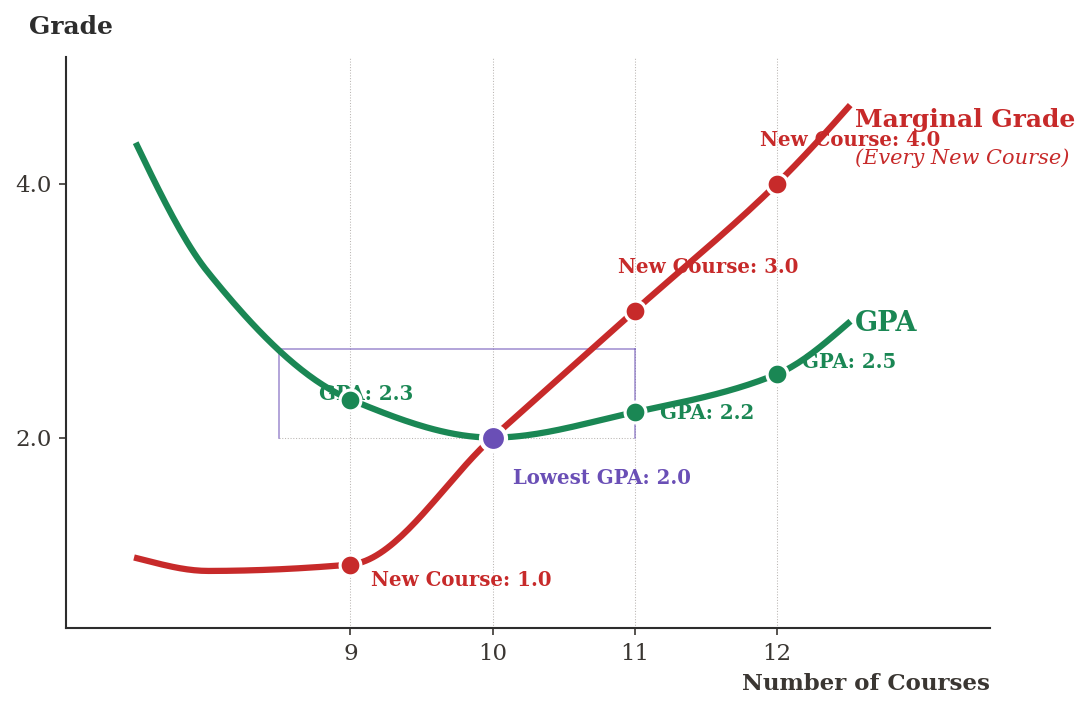
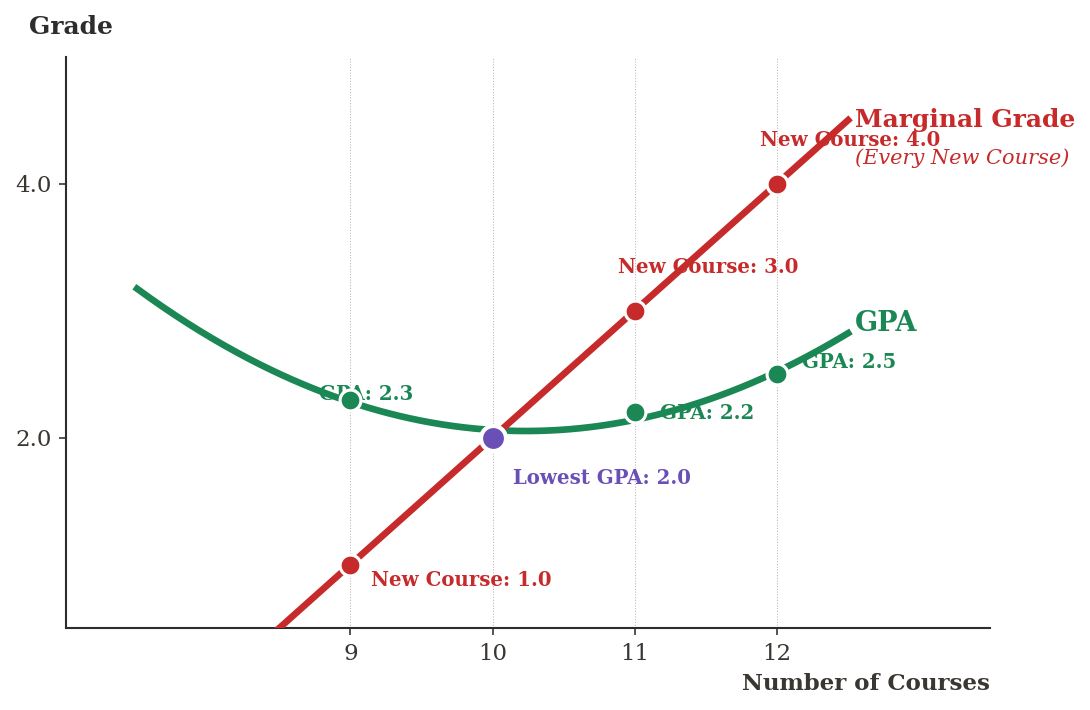
ch08: tweak 3D-printer photos + smoother GPA chart + merge Poll #1 into envelope-mu-mc
1. Slide 39 (3d-printers-and-manufacturing-cost): both photo cards
   now share an explicit 90px-tall flex container; img uses
   object-fit: contain + width:auto so each image shows at its
   full natural height (70px) without crop. Conventional-vs-Additive
   chart max-height shrunk 320 → 280 to keep the slide under 720px.

2. Slide 38 (amc-gpa-analogy): regenerated fig-gpa-analogy.png with
   smoother curves (quadratic fits through the 4 anchor points
   instead of PChip interpolation) and removed the decorative purple
   rectangle box that boxed the (8.5..11, 2.0..2.7) region. The
   purple emphasis dot at the (10, 2.0) crossing is kept.

3. Merged Poll #1 (former standalone vertical-stack at counter 42-43)
   INTO envelope-mu-mc (counter 41). Compressed the Calculus Corner
   text — single-paragraph derivation + single boxed result μ = MC
   + single interpretation line — then added a dashed separator and
   the Poll question + 4 horizontal options. Option C is fragment-
   revealed in green with a ✓; the explanation paragraph is the
   second fragment. Net change: -3 sections (no separate poll slide).

Total slides: 57 → 55.

diff --git a/econ2316/ch08-costs-of-production/index.html b/econ2316/ch08-costs-of-production/index.html
@@ -1369,12 +1369,12 @@
     <p style="font-size: 12pt; line-height: 1.4; margin: 0;">
       Modern <strong>3D printers</strong> take <em>Star Trek</em>'s &ldquo;replicator&rdquo; idea and make it real: feed plastic or metal, get a finished part. Cost structure: <strong style="color: var(--secondary-color);">fixed cost</strong> for the printer + <strong style="color: var(--accent-color);">variable cost</strong> for the materials.
     </p>
-    <div style="text-align: center;">
-      <img alt="Star Trek replicator scene with a Klingon at a panel showing the device reconstituting matter into food and drinks" src="figures/replicator.png" style="width: 100%; max-height: 70px; object-fit: cover; border-radius: 4px;">
+    <div style="text-align: center; background: #f4f1ed; border-radius: 4px; padding: 2px; height: 90px; display: flex; flex-direction: column; align-items: center; justify-content: center;">
+      <img alt="Star Trek replicator scene with a Klingon at a panel showing the device reconstituting matter into food and drinks" src="figures/replicator.png" style="max-width: 100%; max-height: 70px; height: 70px; width: auto; object-fit: contain;">
       <p style="font-size: 8pt; color: var(--muted-color); font-style: italic; margin: 1px 0 0;">Star Trek &ldquo;replicator&rdquo;</p>
     </div>
-    <div style="text-align: center;">
-      <img alt="Modern desktop 3D printer (Creality enclosure model) on a workbench" src="figures/3dprinter.jpg" style="width: 100%; max-height: 70px; object-fit: cover; border-radius: 4px;">
+    <div style="text-align: center; background: #f4f1ed; border-radius: 4px; padding: 2px; height: 90px; display: flex; flex-direction: column; align-items: center; justify-content: center;">
+      <img alt="Modern desktop 3D printer (Creality enclosure model) on a workbench" src="figures/3dprinter.jpg" style="max-width: 100%; max-height: 70px; height: 70px; width: auto; object-fit: contain;">
       <p style="font-size: 8pt; color: var(--muted-color); font-style: italic; margin: 1px 0 0;">Modern 3D printer (Creality)</p>
     </div>
   </div>
@@ -1405,7 +1405,7 @@
 
     <!-- RIGHT: Additive vs Conventional Manufacturing chart -->
     <div style="text-align: center;">
-      <img alt="Cost-per-unit vs unit-volume diagram. Blue curve labeled Conventional Manufacturing starts very high at low volume and falls toward a horizontal floor — economies of scale. Red horizontal line labeled Additive Manufacturing is flat — no scale economies. Crossover at moderate volume where conventional becomes cheaper than additive." src="figures/fig-additive-vs-conventional.png" style="width: 100%; max-height: 320px; border-radius: 6px;">
+      <img alt="Cost-per-unit vs unit-volume diagram. Blue curve labeled Conventional Manufacturing starts very high at low volume and falls toward a horizontal floor — economies of scale. Red horizontal line labeled Additive Manufacturing is flat — no scale economies. Crossover at moderate volume where conventional becomes cheaper than additive." src="figures/fig-additive-vs-conventional.png" style="width: 100%; max-height: 280px; border-radius: 6px;">
     </div>
   </div>
 
@@ -1449,59 +1449,37 @@
 <!-- ===== Slide 21 — Envelope theorem: μ = MC ===== -->
 <section id="envelope-mu-mc">
   <h2><i class="fa-solid fa-square-root-variable" style="color: var(--accent-color);"></i> Calculus Corner &mdash; The Envelope Theorem: \(\mu = MC\)</h2>
-  <p style="font-size: 13pt; line-height: 1.5;">
-    Recall the Lagrangian \(\mathcal{L} = wL + rK + \mu(q - f)\). Differentiate the optimized cost with respect to \(q\):
+  <p style="font-size: 12pt; line-height: 1.4; margin: 0 0 4px;">
+    Recall \(\mathcal{L} = wL + rK + \mu(q - f)\). Differentiate the optimized cost w.r.t. \(q\); the indirect effects vanish via the FOCs \(w = \mu f_L,\, r = \mu f_K\) and \(\partial f/\partial q = 1\):
   </p>
-  <div class="key-result" style="margin-top: 4px;">
-    <p style="margin: 0; text-align: center; font-size: 15pt;">
-      \[ \frac{\partial c}{\partial q} \;=\; \underbrace{w \frac{\partial L^*}{\partial q} + r \frac{\partial K^*}{\partial q}}_{\text{indirect effects}} \;+\; \underbrace{0}_{\text{direct}} \]
+  <div class="key-result" style="background: #ecfdf5; border-left-color: var(--success-color); margin: 4px 0; padding: 6px 14px;">
+    <p style="margin: 0; text-align: center; font-size: 16pt;">
+      \[ \frac{\partial c}{\partial q} \;=\; \mu \;=\; MC \]
     </p>
   </div>
-  <p style="font-size: 13pt; line-height: 1.5; margin-top: 10px;">
-    Use the FOCs \(w = \mu f_L,\, r = \mu f_K\). The indirect-effects bracket becomes \(\mu(f_L \partial L^*/\partial q + f_K \partial K^*/\partial q) = \mu \cdot \partial f/\partial q = \mu \cdot 1 = \mu\):
+  <p style="font-size: 11.5pt; line-height: 1.4; margin: 4px 0 0;">
+    <strong>The Lagrange multiplier on the output constraint is marginal cost.</strong> Same envelope mechanics as the consumer's \(\lambda = \partial v/\partial I = \) marginal utility of income (Ch 5).
   </p>
-  <div class="key-result" style="background: #ecfdf5; border-left-color: var(--success-color); margin-top: 4px;">
-    <p style="margin: 0; text-align: center; font-size: 17pt;">
-      \[ \boxed{\;\frac{\partial c}{\partial q} \;=\; \mu \;=\; MC\;} \]
-    </p>
-  </div>
-  <p style="font-size: 12.5pt; line-height: 1.5; margin-top: 10px;">
-    <strong>The Lagrange multiplier on the output constraint is marginal cost.</strong> No coincidence &mdash; \(\mu\) is the shadow price of one extra unit of output, which is by definition marginal cost.
-  </p>
-  <p style="font-size: 12pt; color: var(--muted-color); font-style: italic; margin-top: 6px; text-align: center;">
-    Same envelope mechanics as the consumer's \(\lambda = \partial v/\partial I = \) marginal utility of income (Ch 5).
-  </p>
-  <aside class="notes">The envelope theorem in two lines. The "indirect effects" cancel because they're balanced exactly by the FOCs and the binding constraint. What's left is the direct effect of \(q\) on the Lagrangian, which is the multiplier \(\mu\). So \(\partial c/\partial q = \mu = MC\) — an identity, not a coincidence. This is the producer-side analog of \(\lambda = \) marginal utility of income from Ch 5. The envelope theorem is the workhorse of comparative statics in microeconomics; we'll use it again in §8.6 (Shephard's lemma — same mechanics but on price arguments) and in Ch 9 (Hotelling's lemma — same mechanics for the profit function). Don't skip this slide even if pressed for time — it's the conceptual glue for the rest of the chapter.</aside>
-</section>
 
-<!-- ===== Slide 22 — Poll #1 ===== -->
-<section>
-  <section id="poll-1">
-    <h2><i class="fa-solid fa-chart-bar" style="color: var(--accent-color);"></i> Poll #1 &mdash; AC vs MC at the Gigafactory</h2>
-    <div style="background: #f8f6f3; border-radius: 10px; padding: 16px 22px;">
-      <p style="font-size: 14pt; line-height: 1.6;">
-        At the gigafactory cost-min bundle, total cost \(c^* = 0.87\) B\$/yr at \(q = 32\) GWh. Under CRS Cobb-Douglas (\(\alpha + \beta = 1\)), what's the relationship between marginal cost and average cost at \(q = 32\)?
-      </p>
+  <!-- Inline Poll #1 (merged from the old standalone poll vertical-stack) -->
+  <div style="margin-top: 10px; border-top: 1.5px dashed var(--line-color); padding-top: 8px;">
+    <p style="margin: 0 0 4px; font-size: 11.5pt;">
+      <i class="fa-solid fa-chart-bar" style="color: var(--accent-color); margin-right: 4px;"></i>
+      <strong>Poll #1 &mdash; AC vs MC at the Gigafactory.</strong>
+      At the cost-min bundle, \(c^* = 0.87\) B\$/yr and \(q = 32\) GWh. Under <strong>CRS Cobb-Douglas</strong> (\(\alpha+\beta=1\)), what's the relationship between \(MC\) and \(AC\) at \(q = 32\)?
+    </p>
+    <div class="poll-grid" data-poll-id="ch08-poll-1" style="display: grid; grid-template-columns: 1fr 1fr 1fr 1fr; gap: 6px; margin-top: 6px; font-size: 10.5pt;">
+      <div class="poll-option" data-choice="A" style="background: #f0f5f8; padding: 5px 8px; border-radius: 5px; cursor: pointer; border: 2px solid transparent; text-align: center;">A) \(MC > AC\)</div>
+      <div class="poll-option" data-choice="B" style="background: #f0f5f8; padding: 5px 8px; border-radius: 5px; cursor: pointer; border: 2px solid transparent; text-align: center;">B) \(MC < AC\)</div>
+      <div class="poll-option fragment" data-choice="C" data-fragment-index="1" style="background: #ecfdf5; padding: 5px 8px; border-radius: 5px; border: 2px solid var(--success-color); text-align: center; font-weight: 700; color: var(--success-color);">C) \(MC = AC\) everywhere ✓</div>
+      <div class="poll-option" data-choice="D" style="background: #f0f5f8; padding: 5px 8px; border-radius: 5px; cursor: pointer; border: 2px solid transparent; text-align: center;">D) Need more info</div>
     </div>
-    <div class="poll-grid" data-poll-id="ch08-poll-1" style="display: grid; grid-template-columns: 1fr 1fr; gap: 14px; margin-top: 16px; font-size: 13.5pt;">
-      <div class="poll-option" data-choice="A" style="background: #f0f5f8; padding: 14px 20px; border-radius: 8px; cursor: pointer; transition: all 0.2s; border: 3px solid transparent;">A) \(MC > AC\) (AC is rising)</div>
-      <div class="poll-option" data-choice="B" style="background: #f0f5f8; padding: 14px 20px; border-radius: 8px; cursor: pointer; transition: all 0.2s; border: 3px solid transparent;">B) \(MC < AC\) (AC is falling)</div>
-      <div class="poll-option" data-choice="C" style="background: #f0f5f8; padding: 14px 20px; border-radius: 8px; cursor: pointer; transition: all 0.2s; border: 3px solid transparent;">C) \(MC = AC\) everywhere</div>
-      <div class="poll-option" data-choice="D" style="background: #f0f5f8; padding: 14px 20px; border-radius: 8px; cursor: pointer; transition: all 0.2s; border: 3px solid transparent;">D) Need more info to tell</div>
-    </div>
-    <p style="text-align: center; margin-top: 14px;"><span class="timer-badge"><i class="fa-solid fa-clock"></i> 45 sec to vote</span></p>
-    <aside class="notes">Answer: C. Under CRS, the cost function is linear in \(q\): \(c(q) = MC \cdot q\). So \(AC = c/q = MC\) at every \(q\). The U-shape collapses to a horizontal line — AC = MC = a constant. Students who pick A or B may have memorized "MC = AC at the min of AC" without internalizing that the min-of-AC story only applies to U-shaped cost functions; under CRS there's no U-shape. Students who pick D are too cautious — the prompt gave us CRS, which uniquely pins the answer. Numerical verification: at the gigafactory, \(MC = (w/\beta)^\beta(r/\alpha)^\alpha/A = (0.10/0.6)^{0.6}(0.13/0.4)^{0.4}/8 \approx 0.0272\) B\$/GWh; \(AC = 0.87/32 = 0.0272\). Exactly equal. ✓</aside>
-  </section>
-  <section data-poll-results="ch08-poll-1" id="poll-1-reveal">
-    <h2><i class="fa-solid fa-check-circle" style="color: var(--success-color);"></i> Poll #1 &mdash; Answer: C) \(MC = AC\) everywhere</h2>
-    <div style="background: #f8f6f3; padding: 16px 22px; border-radius: 8px;">
-      <p style="font-size: 13.5pt; line-height: 1.6;">Under CRS, the cost function is <strong>linear</strong> in \(q\): \(c(q) = (w/\beta)^\beta(r/\alpha)^\alpha \cdot q / A\).</p>
-      <p style="font-size: 13.5pt; line-height: 1.6; margin-top: 6px;">So \(MC = \partial c/\partial q\) is constant, and \(AC = c/q\) is the <em>same</em> constant.</p>
-    </div>
-    <div class="key-result" style="margin-top: 12px;">
-      <p style="margin: 0; font-size: 13pt;">Numerically: \(MC = AC = (0.10/0.6)^{0.6}(0.13/0.4)^{0.4}/8 \approx \mathbf{0.0272}\) B\$/GWh \(\approx\) <strong>\$27/MWh</strong> on average and at the margin. The U-shape returns only under DRS or IRS &mdash; or under SR with fixed capital (§8.7).</p>
-    </div>
-  </section>
+    <p class="fragment" data-fragment-index="2" style="font-size: 11pt; line-height: 1.4; margin: 6px 0 0; color: var(--success-color);">
+      <strong>Why C.</strong> Under CRS, \(c(q)\) is <em>linear</em> in \(q\), so \(MC = \partial c/\partial q\) is constant and \(AC = c/q\) is the <em>same</em> constant. Numerically at the gigafactory: \(MC = AC \approx 0.0272\) B\$/GWh \(\approx\) <strong>\$27/MWh</strong>. The U-shape only returns under DRS / IRS or SR.
+    </p>
+  </div>
+
+  <aside class="notes">The envelope theorem in two lines, plus an inline Poll #1 (merged from the former standalone poll slide). The "indirect effects" cancel because they're balanced exactly by the FOCs and the binding constraint. What's left is the direct effect of \(q\) on the Lagrangian, which is the multiplier \(\mu\). So \(\partial c/\partial q = \mu = MC\) — an identity, not a coincidence. This is the producer-side analog of \(\lambda = \) marginal utility of income from Ch 5. POLL ANSWER: C. Under CRS, cost is linear in \(q\), so MC = AC at every output. Students who pick A or B mis-applied "MC = AC at AC's minimum" to a non-U-shape cost curve. Numerical anchor: MC = AC ≈ \$0.0272 B\$/GWh ≈ \$27/MWh at the gigafactory. Press → once to reveal the correct-answer highlight on C; press → again to reveal the explanation paragraph.</aside>
 </section>
 
 <!-- ===== Slide 23 — Section divider §8.6 ===== -->

diff --git a/econ2316/ch08-costs-of-production/presentation.html b/econ2316/ch08-costs-of-production/presentation.html
@@ -1369,12 +1369,12 @@
     <p style="font-size: 12pt; line-height: 1.4; margin: 0;">
       Modern <strong>3D printers</strong> take <em>Star Trek</em>'s &ldquo;replicator&rdquo; idea and make it real: feed plastic or metal, get a finished part. Cost structure: <strong style="color: var(--secondary-color);">fixed cost</strong> for the printer + <strong style="color: var(--accent-color);">variable cost</strong> for the materials.
     </p>
-    <div style="text-align: center;">
-      <img alt="Star Trek replicator scene with a Klingon at a panel showing the device reconstituting matter into food and drinks" src="figures/replicator.png" style="width: 100%; max-height: 70px; object-fit: cover; border-radius: 4px;">
+    <div style="text-align: center; background: #f4f1ed; border-radius: 4px; padding: 2px; height: 90px; display: flex; flex-direction: column; align-items: center; justify-content: center;">
+      <img alt="Star Trek replicator scene with a Klingon at a panel showing the device reconstituting matter into food and drinks" src="figures/replicator.png" style="max-width: 100%; max-height: 70px; height: 70px; width: auto; object-fit: contain;">
       <p style="font-size: 8pt; color: var(--muted-color); font-style: italic; margin: 1px 0 0;">Star Trek &ldquo;replicator&rdquo;</p>
     </div>
-    <div style="text-align: center;">
-      <img alt="Modern desktop 3D printer (Creality enclosure model) on a workbench" src="figures/3dprinter.jpg" style="width: 100%; max-height: 70px; object-fit: cover; border-radius: 4px;">
+    <div style="text-align: center; background: #f4f1ed; border-radius: 4px; padding: 2px; height: 90px; display: flex; flex-direction: column; align-items: center; justify-content: center;">
+      <img alt="Modern desktop 3D printer (Creality enclosure model) on a workbench" src="figures/3dprinter.jpg" style="max-width: 100%; max-height: 70px; height: 70px; width: auto; object-fit: contain;">
       <p style="font-size: 8pt; color: var(--muted-color); font-style: italic; margin: 1px 0 0;">Modern 3D printer (Creality)</p>
     </div>
   </div>
@@ -1405,7 +1405,7 @@
 
     <!-- RIGHT: Additive vs Conventional Manufacturing chart -->
     <div style="text-align: center;">
-      <img alt="Cost-per-unit vs unit-volume diagram. Blue curve labeled Conventional Manufacturing starts very high at low volume and falls toward a horizontal floor — economies of scale. Red horizontal line labeled Additive Manufacturing is flat — no scale economies. Crossover at moderate volume where conventional becomes cheaper than additive." src="figures/fig-additive-vs-conventional.png" style="width: 100%; max-height: 320px; border-radius: 6px;">
+      <img alt="Cost-per-unit vs unit-volume diagram. Blue curve labeled Conventional Manufacturing starts very high at low volume and falls toward a horizontal floor — economies of scale. Red horizontal line labeled Additive Manufacturing is flat — no scale economies. Crossover at moderate volume where conventional becomes cheaper than additive." src="figures/fig-additive-vs-conventional.png" style="width: 100%; max-height: 280px; border-radius: 6px;">
     </div>
   </div>
 
@@ -1449,59 +1449,37 @@
 <!-- ===== Slide 21 — Envelope theorem: μ = MC ===== -->
 <section id="envelope-mu-mc">
   <h2><i class="fa-solid fa-square-root-variable" style="color: var(--accent-color);"></i> Calculus Corner &mdash; The Envelope Theorem: \(\mu = MC\)</h2>
-  <p style="font-size: 13pt; line-height: 1.5;">
-    Recall the Lagrangian \(\mathcal{L} = wL + rK + \mu(q - f)\). Differentiate the optimized cost with respect to \(q\):
+  <p style="font-size: 12pt; line-height: 1.4; margin: 0 0 4px;">
+    Recall \(\mathcal{L} = wL + rK + \mu(q - f)\). Differentiate the optimized cost w.r.t. \(q\); the indirect effects vanish via the FOCs \(w = \mu f_L,\, r = \mu f_K\) and \(\partial f/\partial q = 1\):
   </p>
-  <div class="key-result" style="margin-top: 4px;">
-    <p style="margin: 0; text-align: center; font-size: 15pt;">
-      \[ \frac{\partial c}{\partial q} \;=\; \underbrace{w \frac{\partial L^*}{\partial q} + r \frac{\partial K^*}{\partial q}}_{\text{indirect effects}} \;+\; \underbrace{0}_{\text{direct}} \]
+  <div class="key-result" style="background: #ecfdf5; border-left-color: var(--success-color); margin: 4px 0; padding: 6px 14px;">
+    <p style="margin: 0; text-align: center; font-size: 16pt;">
+      \[ \frac{\partial c}{\partial q} \;=\; \mu \;=\; MC \]
     </p>
   </div>
-  <p style="font-size: 13pt; line-height: 1.5; margin-top: 10px;">
-    Use the FOCs \(w = \mu f_L,\, r = \mu f_K\). The indirect-effects bracket becomes \(\mu(f_L \partial L^*/\partial q + f_K \partial K^*/\partial q) = \mu \cdot \partial f/\partial q = \mu \cdot 1 = \mu\):
+  <p style="font-size: 11.5pt; line-height: 1.4; margin: 4px 0 0;">
+    <strong>The Lagrange multiplier on the output constraint is marginal cost.</strong> Same envelope mechanics as the consumer's \(\lambda = \partial v/\partial I = \) marginal utility of income (Ch 5).
   </p>
-  <div class="key-result" style="background: #ecfdf5; border-left-color: var(--success-color); margin-top: 4px;">
-    <p style="margin: 0; text-align: center; font-size: 17pt;">
-      \[ \boxed{\;\frac{\partial c}{\partial q} \;=\; \mu \;=\; MC\;} \]
-    </p>
-  </div>
-  <p style="font-size: 12.5pt; line-height: 1.5; margin-top: 10px;">
-    <strong>The Lagrange multiplier on the output constraint is marginal cost.</strong> No coincidence &mdash; \(\mu\) is the shadow price of one extra unit of output, which is by definition marginal cost.
-  </p>
-  <p style="font-size: 12pt; color: var(--muted-color); font-style: italic; margin-top: 6px; text-align: center;">
-    Same envelope mechanics as the consumer's \(\lambda = \partial v/\partial I = \) marginal utility of income (Ch 5).
-  </p>
-  <aside class="notes">The envelope theorem in two lines. The "indirect effects" cancel because they're balanced exactly by the FOCs and the binding constraint. What's left is the direct effect of \(q\) on the Lagrangian, which is the multiplier \(\mu\). So \(\partial c/\partial q = \mu = MC\) — an identity, not a coincidence. This is the producer-side analog of \(\lambda = \) marginal utility of income from Ch 5. The envelope theorem is the workhorse of comparative statics in microeconomics; we'll use it again in §8.6 (Shephard's lemma — same mechanics but on price arguments) and in Ch 9 (Hotelling's lemma — same mechanics for the profit function). Don't skip this slide even if pressed for time — it's the conceptual glue for the rest of the chapter.</aside>
-</section>
 
-<!-- ===== Slide 22 — Poll #1 ===== -->
-<section>
-  <section id="poll-1">
-    <h2><i class="fa-solid fa-chart-bar" style="color: var(--accent-color);"></i> Poll #1 &mdash; AC vs MC at the Gigafactory</h2>
-    <div style="background: #f8f6f3; border-radius: 10px; padding: 16px 22px;">
-      <p style="font-size: 14pt; line-height: 1.6;">
-        At the gigafactory cost-min bundle, total cost \(c^* = 0.87\) B\$/yr at \(q = 32\) GWh. Under CRS Cobb-Douglas (\(\alpha + \beta = 1\)), what's the relationship between marginal cost and average cost at \(q = 32\)?
-      </p>
+  <!-- Inline Poll #1 (merged from the old standalone poll vertical-stack) -->
+  <div style="margin-top: 10px; border-top: 1.5px dashed var(--line-color); padding-top: 8px;">
+    <p style="margin: 0 0 4px; font-size: 11.5pt;">
+      <i class="fa-solid fa-chart-bar" style="color: var(--accent-color); margin-right: 4px;"></i>
+      <strong>Poll #1 &mdash; AC vs MC at the Gigafactory.</strong>
+      At the cost-min bundle, \(c^* = 0.87\) B\$/yr and \(q = 32\) GWh. Under <strong>CRS Cobb-Douglas</strong> (\(\alpha+\beta=1\)), what's the relationship between \(MC\) and \(AC\) at \(q = 32\)?
+    </p>
+    <div class="poll-grid" data-poll-id="ch08-poll-1" style="display: grid; grid-template-columns: 1fr 1fr 1fr 1fr; gap: 6px; margin-top: 6px; font-size: 10.5pt;">
+      <div class="poll-option" data-choice="A" style="background: #f0f5f8; padding: 5px 8px; border-radius: 5px; cursor: pointer; border: 2px solid transparent; text-align: center;">A) \(MC > AC\)</div>
+      <div class="poll-option" data-choice="B" style="background: #f0f5f8; padding: 5px 8px; border-radius: 5px; cursor: pointer; border: 2px solid transparent; text-align: center;">B) \(MC < AC\)</div>
+      <div class="poll-option fragment" data-choice="C" data-fragment-index="1" style="background: #ecfdf5; padding: 5px 8px; border-radius: 5px; border: 2px solid var(--success-color); text-align: center; font-weight: 700; color: var(--success-color);">C) \(MC = AC\) everywhere ✓</div>
+      <div class="poll-option" data-choice="D" style="background: #f0f5f8; padding: 5px 8px; border-radius: 5px; cursor: pointer; border: 2px solid transparent; text-align: center;">D) Need more info</div>
     </div>
-    <div class="poll-grid" data-poll-id="ch08-poll-1" style="display: grid; grid-template-columns: 1fr 1fr; gap: 14px; margin-top: 16px; font-size: 13.5pt;">
-      <div class="poll-option" data-choice="A" style="background: #f0f5f8; padding: 14px 20px; border-radius: 8px; cursor: pointer; transition: all 0.2s; border: 3px solid transparent;">A) \(MC > AC\) (AC is rising)</div>
-      <div class="poll-option" data-choice="B" style="background: #f0f5f8; padding: 14px 20px; border-radius: 8px; cursor: pointer; transition: all 0.2s; border: 3px solid transparent;">B) \(MC < AC\) (AC is falling)</div>
-      <div class="poll-option" data-choice="C" style="background: #f0f5f8; padding: 14px 20px; border-radius: 8px; cursor: pointer; transition: all 0.2s; border: 3px solid transparent;">C) \(MC = AC\) everywhere</div>
-      <div class="poll-option" data-choice="D" style="background: #f0f5f8; padding: 14px 20px; border-radius: 8px; cursor: pointer; transition: all 0.2s; border: 3px solid transparent;">D) Need more info to tell</div>
-    </div>
-    <p style="text-align: center; margin-top: 14px;"><span class="timer-badge"><i class="fa-solid fa-clock"></i> 45 sec to vote</span></p>
-    <aside class="notes">Answer: C. Under CRS, the cost function is linear in \(q\): \(c(q) = MC \cdot q\). So \(AC = c/q = MC\) at every \(q\). The U-shape collapses to a horizontal line — AC = MC = a constant. Students who pick A or B may have memorized "MC = AC at the min of AC" without internalizing that the min-of-AC story only applies to U-shaped cost functions; under CRS there's no U-shape. Students who pick D are too cautious — the prompt gave us CRS, which uniquely pins the answer. Numerical verification: at the gigafactory, \(MC = (w/\beta)^\beta(r/\alpha)^\alpha/A = (0.10/0.6)^{0.6}(0.13/0.4)^{0.4}/8 \approx 0.0272\) B\$/GWh; \(AC = 0.87/32 = 0.0272\). Exactly equal. ✓</aside>
-  </section>
-  <section data-poll-results="ch08-poll-1" id="poll-1-reveal">
-    <h2><i class="fa-solid fa-check-circle" style="color: var(--success-color);"></i> Poll #1 &mdash; Answer: C) \(MC = AC\) everywhere</h2>
-    <div style="background: #f8f6f3; padding: 16px 22px; border-radius: 8px;">
-      <p style="font-size: 13.5pt; line-height: 1.6;">Under CRS, the cost function is <strong>linear</strong> in \(q\): \(c(q) = (w/\beta)^\beta(r/\alpha)^\alpha \cdot q / A\).</p>
-      <p style="font-size: 13.5pt; line-height: 1.6; margin-top: 6px;">So \(MC = \partial c/\partial q\) is constant, and \(AC = c/q\) is the <em>same</em> constant.</p>
-    </div>
-    <div class="key-result" style="margin-top: 12px;">
-      <p style="margin: 0; font-size: 13pt;">Numerically: \(MC = AC = (0.10/0.6)^{0.6}(0.13/0.4)^{0.4}/8 \approx \mathbf{0.0272}\) B\$/GWh \(\approx\) <strong>\$27/MWh</strong> on average and at the margin. The U-shape returns only under DRS or IRS &mdash; or under SR with fixed capital (§8.7).</p>
-    </div>
-  </section>
+    <p class="fragment" data-fragment-index="2" style="font-size: 11pt; line-height: 1.4; margin: 6px 0 0; color: var(--success-color);">
+      <strong>Why C.</strong> Under CRS, \(c(q)\) is <em>linear</em> in \(q\), so \(MC = \partial c/\partial q\) is constant and \(AC = c/q\) is the <em>same</em> constant. Numerically at the gigafactory: \(MC = AC \approx 0.0272\) B\$/GWh \(\approx\) <strong>\$27/MWh</strong>. The U-shape only returns under DRS / IRS or SR.
+    </p>
+  </div>
+
+  <aside class="notes">The envelope theorem in two lines, plus an inline Poll #1 (merged from the former standalone poll slide). The "indirect effects" cancel because they're balanced exactly by the FOCs and the binding constraint. What's left is the direct effect of \(q\) on the Lagrangian, which is the multiplier \(\mu\). So \(\partial c/\partial q = \mu = MC\) — an identity, not a coincidence. This is the producer-side analog of \(\lambda = \) marginal utility of income from Ch 5. POLL ANSWER: C. Under CRS, cost is linear in \(q\), so MC = AC at every output. Students who pick A or B mis-applied "MC = AC at AC's minimum" to a non-U-shape cost curve. Numerical anchor: MC = AC ≈ \$0.0272 B\$/GWh ≈ \$27/MWh at the gigafactory. Press → once to reveal the correct-answer highlight on C; press → again to reveal the explanation paragraph.</aside>
 </section>
 
 <!-- ===== Slide 23 — Section divider §8.6 ===== -->
